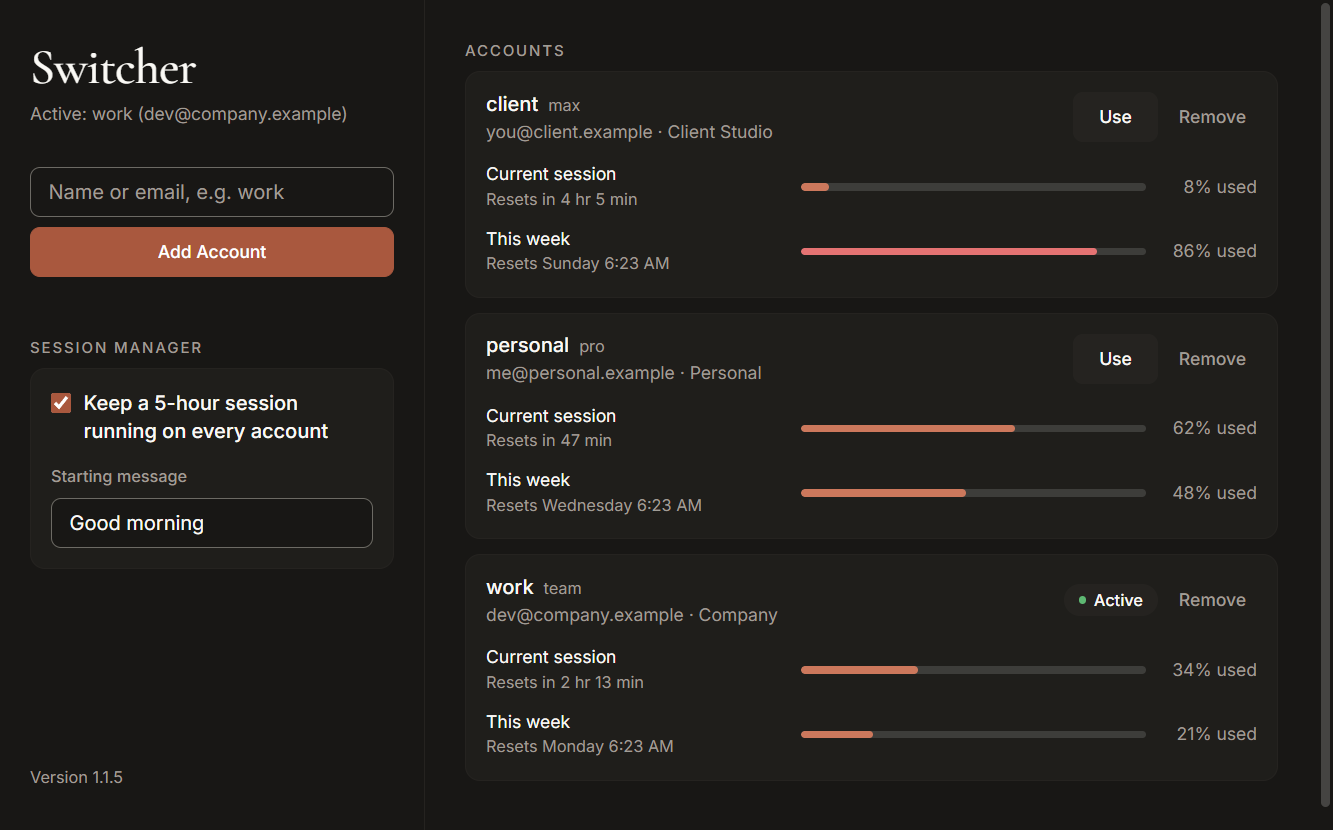
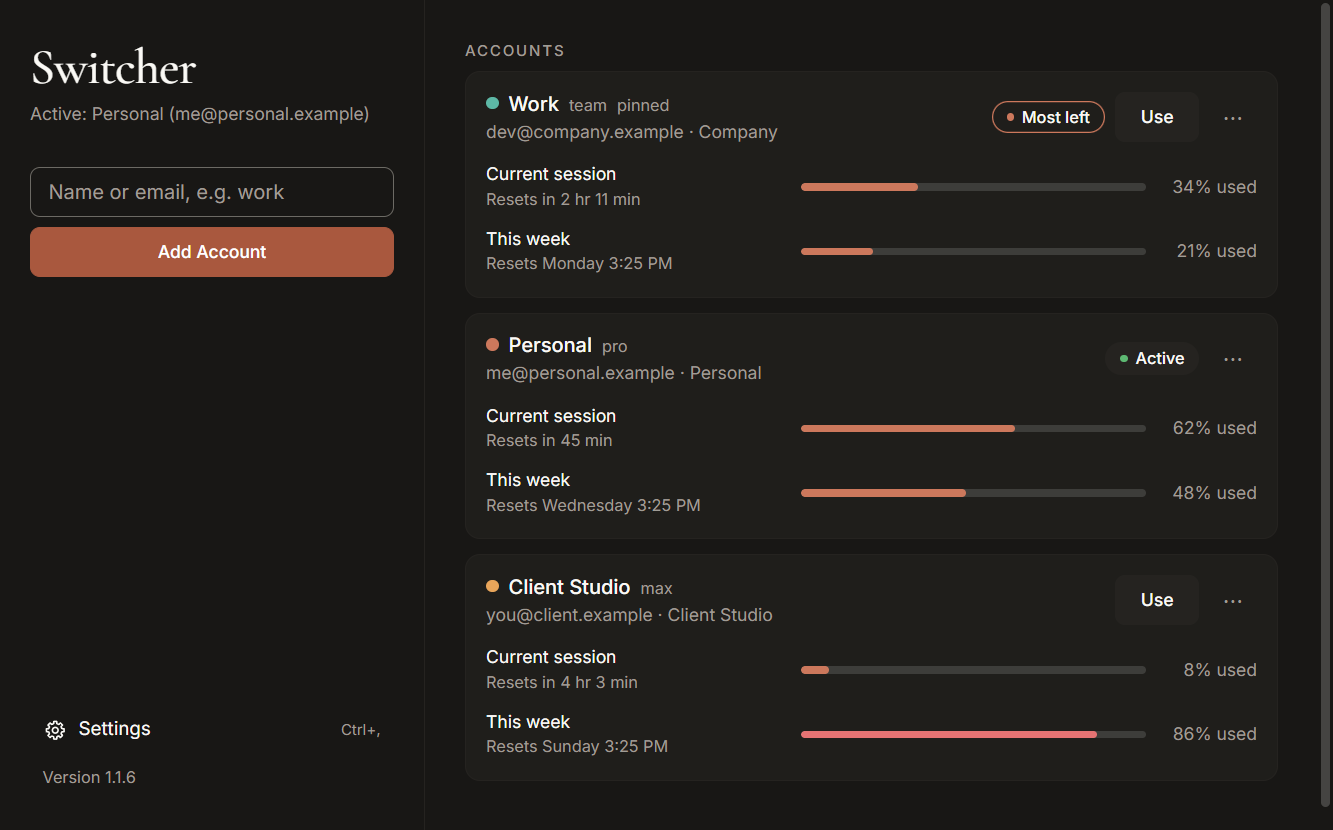
Settings in a Claude-style dialog (#2)
Session manager and settings move out of the sidebar into a modal with sections on the left
(Session manager, General, Quick switcher) and rows of label + control on the right, with on/off
switches. Opens from the Settings button at the bottom of the sidebar or Ctrl/Cmd+,; Esc or a
backdrop click closes it (Esc while recording a shortcut only cancels the recording).

diff --git a/styles.css b/styles.css
@@ -132,16 +132,50 @@ input.rename { height: 32px; padding: 4px 8px; font: 500 16px var(--sans); max-w
 li.dragging { opacity: 0.5; }
 li.drop { border-color: var(--focus); }
 
-/* Settings */
-.panel.settings { margin-top: 12px; } /* .panel's margin: 0 comes later, so this needs the extra class */
-.settings summary { cursor: pointer; font: 500 12px/1.4 var(--sans); letter-spacing: 1.5px; text-transform: uppercase; color: var(--muted); }
-.settings[open] summary { margin-bottom: 8px; }
-/* "Turn off" sits on the label line so the field gets the full width for the key combination. */
-.shortcut-head { display: flex; align-items: baseline; justify-content: space-between; gap: 8px; margin-top: 8px; }
-.panel .shortcut-head label { margin-top: 0; }
-.shortcut-head button.link { height: 24px; padding: 0 4px; font-size: 13px; }
+/* Sidebar foot: Settings and the version, pinned to the bottom */
+.side-foot { display: grid; gap: 8px; margin-top: auto; padding-top: 24px; }
+button.side-link { display: flex; align-items: center; gap: 10px; padding: 0 10px; border-color: transparent; background: transparent; font-weight: 400; font-size: 15px; text-align: left; }
+button.side-link:hover { background: var(--pill); }
+button.side-link kbd { margin-left: auto; font: 400 12px var(--sans); color: var(--muted); }
+svg { flex: none; width: 18px; height: 18px; fill: none; stroke: currentColor; stroke-width: 1.75; stroke-linecap: round; stroke-linejoin: round; }
+
+/* Settings dialog, laid out like Claude's: sections on the left, rows of label + control on the right */
+dialog.settings-dialog { width: min(860px, calc(100vw - 32px)); height: min(560px, calc(100vh - 32px)); max-width: none; max-height: none; padding: 0;
+  border: 1px solid var(--hairline); border-radius: 16px; background: var(--card); color: var(--ink); box-shadow: 0 16px 48px rgb(20 20 19 / 0.24); }
+dialog.settings-dialog[open] { display: grid; grid-template-rows: auto minmax(0, 1fr); }
+dialog::backdrop { background: rgb(20 20 19 / 0.45); }
+.dialog-head { display: flex; align-items: center; justify-content: space-between; padding: 12px 12px 12px 24px; border-bottom: 1px solid var(--hairline); }
+.dialog-head h2 { margin: 0; font: 500 17px/1.3 var(--sans); letter-spacing: 0; text-transform: none; color: var(--ink); }
+button.close { width: 36px; height: 36px; padding: 0; display: grid; place-items: center; }
+button.close:hover { background: var(--pill); color: var(--ink); }
+.settings-body { display: grid; grid-template-columns: 220px minmax(0, 1fr); min-height: 0; }
+.settings-nav { display: flex; flex-direction: column; gap: 2px; padding: 12px; border-right: 1px solid var(--hairline); background: var(--soft); }
+.nav-item { display: flex; align-items: center; gap: 12px; height: 38px; padding: 0 12px; border: 0; background: transparent; font-weight: 400; font-size: 15px; text-align: left; }
+.nav-item:hover { background: var(--pill); }
+.nav-item[aria-current="page"] { background: var(--pill); font-weight: 500; }
+.pane { overflow-y: auto; padding: 20px 28px 28px; }
+.pane h3 { margin: 0 0 4px; font: 500 16px/1.4 var(--sans); }
+.setting { display: flex; align-items: center; justify-content: space-between; gap: 24px; padding: 16px 0; border-bottom: 1px solid var(--hairline); }
+.setting:last-child { border-bottom: 0; }
+.setting label { font: 400 15px/1.4 var(--sans); }
+.setting small { margin-top: 2px; font-size: 13px; white-space: normal; }
+.setting > input:not([type=checkbox]), .shortcut-field { flex: 0 1 300px; }
+.shortcut-field { display: flex; align-items: center; gap: 4px; }
 #shortcut { cursor: pointer; }
-#settingsHint { white-space: normal; }
+@media (max-width: 640px) {
+  .settings-body { grid-template-columns: 1fr; grid-template-rows: auto minmax(0, 1fr); }
+  .settings-nav { flex-direction: row; overflow-x: auto; border-right: 0; border-bottom: 1px solid var(--hairline); }
+  .nav-item { flex: none; }
+  .setting { flex-wrap: wrap; }
+}
+
+/* On/off switch: a real checkbox (role="switch"), drawn as a track and knob */
+input.switch { appearance: none; position: relative; flex: none; width: 38px; height: 22px; margin: 0; border-radius: 9999px; background: var(--field-line); cursor: pointer; transition: background 0.15s; }
+input.switch::before { content: ""; position: absolute; top: 3px; left: 3px; width: 16px; height: 16px; border-radius: 50%; background: #fff; transition: transform 0.15s; }
+input.switch:checked { background: var(--primary); }
+input.switch:checked::before { transform: translateX(16px); }
+input.switch:disabled { opacity: 0.45; cursor: default; }
+@media (prefers-reduced-motion: reduce) { input.switch, input.switch::before { transition: none; } }
 
 /* Quick switcher window */
 body.quick { display: flex; flex-direction: column; gap: 8px; height: 100vh; padding: 12px; border: 1px solid var(--hairline); }
@@ -156,14 +190,9 @@ body.quick #q { flex: none; height: 48px; font-size: 18px; }
 .mini { color: var(--muted); font-size: 13px; white-space: nowrap; }
 .quick-foot { margin: 0; padding: 0 4px; color: var(--muted); font-size: 12px; }
 
-.panel { display: grid; grid-template-columns: minmax(0, 1fr); gap: 8px; margin: 0; padding: 16px; background: var(--card); border: 1px solid var(--hairline); border-radius: 12px; }
-.check { display: flex; align-items: flex-start; gap: 10px; font: 500 16px/1.4 var(--sans); cursor: pointer; }
-.check input { flex: none; width: 16px; height: 16px; margin: 3px 0 0; accent-color: var(--primary); } /* centred on the first line */
-.panel label[for] { margin-top: 8px; font: 500 13px/1.4 var(--sans); color: var(--muted); }
 small.manager { margin-top: 10px; white-space: normal; }
 small.err { color: var(--error); }
-#msg + h2 { margin-top: 32px; }
-.update { display: flex; flex-wrap: wrap; align-items: center; gap: 12px; margin: auto 0 0; padding-top: 24px; color: var(--muted); font-size: 13px; } /* pinned to the sidebar's bottom */
+.update { display: flex; flex-wrap: wrap; align-items: center; gap: 12px; margin: 0; padding: 0 10px; color: var(--muted); font-size: 13px; }
 .update progress { flex-basis: 100%; } /* download bar on its own line under the text */
 
 form { display: grid; gap: 8px; }

diff --git a/index.html b/index.html
@@ -15,29 +15,87 @@
       <button class="primary">Add Account</button>
     </form>
     <p id="msg" aria-live="polite"></p>
-    <h2>Session manager</h2>
-    <section class="panel">
-      <label class="check"><input type="checkbox" id="autoStart"> Keep a 5-hour session running on every account</label>
-      <label for="message">Starting message</label>
-      <input id="message" maxlength="500" placeholder="hi">
-    </section>
-    <details class="panel settings">
-      <summary>Settings</summary>
-      <label class="check"><input type="checkbox" id="startAtLogin"> Start Switcher when I log in</label>
-      <label class="check"><input type="checkbox" id="notify"> Desktop notifications</label>
-      <div class="shortcut-head">
-        <label for="shortcut">Quick switcher shortcut</label>
-        <button type="button" id="clearShortcut" class="link">Turn off</button>
-      </div>
-      <input id="shortcut" readonly autocomplete="off" aria-describedby="settingsHint">
-      <small id="settingsHint" aria-live="polite"></small>
-    </details>
-    <p id="update" class="update" aria-live="polite"></p>
+    <div class="side-foot">
+      <button type="button" id="openSettings" class="side-link" aria-haspopup="dialog">
+        <svg viewBox="0 0 24 24" aria-hidden="true"><path d="M18.99 10.26L21.37 10.44L21.37 13.56L18.99 13.74L18.17 15.71L19.73 17.52L17.52 19.73L15.71 18.17L13.74 18.99L13.56 21.37L10.44 21.37L10.26 18.99L8.29 18.17L6.48 19.73L4.27 17.52L5.83 15.71L5.01 13.74L2.63 13.56L2.63 10.44L5.01 10.26L5.83 8.29L4.27 6.48L6.48 4.27L8.29 5.83L10.26 5.01L10.44 2.63L13.56 2.63L13.74 5.01L15.71 5.83L17.52 4.27L19.73 6.48L18.17 8.29Z"/><circle cx="12" cy="12" r="3"/></svg>
+        Settings <kbd id="settingsKey"></kbd>
+      </button>
+      <p id="update" class="update" aria-live="polite"></p>
+    </div>
   </aside>
   <main>
     <h2>Accounts</h2>
     <ul id="list"></ul>
   </main>
+
+  <dialog id="settingsDialog" class="settings-dialog" aria-labelledby="settingsTitle">
+    <header class="dialog-head">
+      <h2 id="settingsTitle">Settings</h2>
+      <button type="button" id="closeSettings" class="link close" aria-label="Close settings">
+        <svg viewBox="0 0 24 24" aria-hidden="true"><path d="M6 6l12 12M18 6L6 18"/></svg>
+      </button>
+    </header>
+    <div class="settings-body">
+      <nav class="settings-nav" aria-label="Settings sections">
+        <button type="button" class="nav-item" data-pane="paneSessions" aria-current="page">
+          <svg viewBox="0 0 24 24" aria-hidden="true"><circle cx="12" cy="12" r="9"/><path d="M12 7v5l3 2"/></svg>
+          Session manager
+        </button>
+        <button type="button" class="nav-item" data-pane="paneGeneral">
+          <svg viewBox="0 0 24 24" aria-hidden="true"><path d="M4 7h9M17 7h3M4 17h3M11 17h9"/><circle cx="15" cy="7" r="2"/><circle cx="9" cy="17" r="2"/></svg>
+          General
+        </button>
+        <button type="button" class="nav-item" data-pane="paneShortcut">
+          <svg viewBox="0 0 24 24" aria-hidden="true"><rect x="3" y="6" width="18" height="12" rx="2"/><path d="M7 10h0M10.5 10h0M14 10h0M17 10h0M8 14h8"/></svg>
+          Quick switcher
+        </button>
+      </nav>
+
+      <section id="paneSessions" class="pane" aria-labelledby="paneSessionsTitle">
+        <h3 id="paneSessionsTitle">Session manager</h3>
+        <div class="setting">
+          <label for="autoStart">Keep a 5-hour session running on every account</label>
+          <input type="checkbox" role="switch" class="switch" id="autoStart">
+        </div>
+        <div class="setting">
+          <label for="message">Starting message</label>
+          <input id="message" maxlength="500" placeholder="hi">
+        </div>
+      </section>
+
+      <section id="paneGeneral" class="pane" aria-labelledby="paneGeneralTitle" hidden>
+        <h3 id="paneGeneralTitle">General</h3>
+        <div class="setting">
+          <div>
+            <label for="startAtLogin">Start Switcher when I log in</label>
+            <small id="loginHint"></small>
+          </div>
+          <input type="checkbox" role="switch" class="switch" id="startAtLogin" aria-describedby="loginHint">
+        </div>
+        <div class="setting">
+          <div>
+            <label for="notify">Desktop notifications</label>
+            <small>Usage limits, logins that expire, and updates.</small>
+          </div>
+          <input type="checkbox" role="switch" class="switch" id="notify">
+        </div>
+      </section>
+
+      <section id="paneShortcut" class="pane" aria-labelledby="paneShortcutTitle" hidden>
+        <h3 id="paneShortcutTitle">Quick switcher</h3>
+        <div class="setting">
+          <div>
+            <label for="shortcut">Keyboard shortcut</label>
+            <small id="settingsHint" aria-live="polite">Opens the quick switcher from anywhere. Click the field, then press the keys.</small>
+          </div>
+          <div class="shortcut-field">
+            <input id="shortcut" readonly autocomplete="off" aria-describedby="settingsHint">
+            <button type="button" id="clearShortcut" class="link">Turn off</button>
+          </div>
+        </div>
+      </section>
+    </div>
+  </dialog>
   <script src="renderer.js"></script>
 </body>
 </html>

diff --git a/renderer.js b/renderer.js
@@ -228,15 +228,17 @@ function showSettings() {
 
 async function loadSettings() {
   try { settings = await window.call('settings'); showSettings(); } catch {}
-  $('settingsHint').textContent = settings.loginSupported === false ? 'Start at login works in the installed app.' : '';
+  $('loginHint').textContent = settings.loginSupported === false ? 'Works in the installed app.' : '';
 }
 
+const SHORTCUT_HINT = $('settingsHint').textContent;
+const shortcutHint = (text = SHORTCUT_HINT, err = false) => { $('settingsHint').textContent = text; $('settingsHint').classList.toggle('err', err); };
 async function saveSettings(patch) {
   try {
     settings = await window.call('setSettings', patch);
-    $('settingsHint').textContent = '';
+    shortcutHint();
   } catch (e) {
-    $('settingsHint').textContent = clean(e);
+    shortcutHint(clean(e), true);
   }
   showSettings();
 }
@@ -252,9 +254,31 @@ $('shortcut').onkeydown = (e) => {
   const key = codeKey(e.code);
   if (!key) return; // only a modifier so far
   const mods = [(MAC ? e.metaKey : e.ctrlKey) && 'CommandOrControl', MAC && e.ctrlKey && 'Control', e.altKey && 'Alt', e.shiftKey && 'Shift'].filter(Boolean);
-  if (!mods.some((m) => m !== 'Shift')) { $('settingsHint').textContent = `Include ${mod} or ${MAC ? 'Option' : 'Alt'} in the shortcut.`; return; }
+  if (!mods.some((m) => m !== 'Shift')) return shortcutHint(`Include ${mod} or ${MAC ? 'Option' : 'Alt'} in the shortcut.`, true);
   saveSettings({ shortcut: [...mods, key].join('+') }).then(() => $('shortcut').blur());
 };
+
+// --- settings dialog: sections on the left, like Claude's ---
+const dialog = $('settingsDialog');
+function showPane(id) {
+  for (const b of document.querySelectorAll('.nav-item')) {
+    const on = b.dataset.pane === id;
+    if (on) b.setAttribute('aria-current', 'page'); else b.removeAttribute('aria-current');
+    $(b.dataset.pane).hidden = !on;
+  }
+}
+function openSettings() {
+  if (dialog.open) return;
+  dialog.showModal();
+  document.querySelector('.nav-item[aria-current]').focus(); // start on the section, not the close button
+}
+for (const b of document.querySelectorAll('.nav-item')) b.onclick = () => showPane(b.dataset.pane);
+$('openSettings').onclick = openSettings;
+$('closeSettings').onclick = () => dialog.close();
+dialog.onclick = (e) => { if (e.target === dialog) dialog.close(); }; // a click on the backdrop
+dialog.oncancel = (e) => { if (document.activeElement === $('shortcut')) { e.preventDefault(); $('shortcut').blur(); } }; // Esc while recording cancels only that
+$('settingsKey').textContent = `${mod}+,`;
+document.addEventListener('keydown', (e) => { if (e.key === ',' && (MAC ? e.metaKey : e.ctrlKey)) { e.preventDefault(); openSettings(); } });
 
 async function refresh() {
   const d = await run('list');

diff --git a/DESIGN.md b/DESIGN.md
@@ -18,7 +18,7 @@ All colours are CSS custom properties on `:root`, redefined for dark mode under 
 |---|---|---|---|
 | `--canvas` | `#faf9f5` | `#181715` | Page and sidebar background, input fill |
 | `--soft` | `#f5f0e8` | `#181715` | Accounts area background |
-| `--card` | `#faf9f5` | `#1f1e1b` | Account cards, the session manager panel |
+| `--card` | `#faf9f5` | `#1f1e1b` | Account cards, menus, the settings dialog |
 | `--secondary` | `#faf9f5` | `#252320` | Secondary buttons (**Use**, **Reconnect**) |
 | `--pill` | `#efe9de` | `#252320` | The **Active** badge |
 | `--ink` | `#141413` | `#faf9f5` | Primary text |
@@ -60,11 +60,11 @@ Fonts are bundled from `@fontsource` (SIL Open Font License), so nothing loads f
 
 - **Spacing** follows a 4px rhythm: 8, 12, 16, 24 and 32px. Cards have 14–16px padding; columns 24–32px.
 - **Radius**: 8px for buttons and inputs, 12px for cards and panels, fully round (`9999px`) for badges, usage bars and the scrollbar.
-- **Borders**: 1px. Shadows only appear as the input focus glow and under the floating card menu (`0 8px 24px` ink at 14%), which needs to lift off the card below it.
+- **Borders**: 1px. Shadows only appear as the input focus glow and under things that float: the card menu (`0 8px 24px` ink at 14%) and the settings dialog (`0 16px 48px` ink at 24%).
 
 ## Layout
 
-- **Sidebar** (340px, left): title, active account, **Add Account**, session manager, settings, and the version and update area pinned to the bottom.
+- **Sidebar** (340px, left): title, active account and **Add Account**; **Settings** and the version and update area are pinned to the bottom.
 - **Accounts** (the rest): one card per account, 12px apart.
 - Each column scrolls on its own. Under 760px wide, it becomes one column.
 
@@ -82,7 +82,9 @@ Fonts are bundled from `@fontsource` (SIL Open Font License), so nothing loads f
 | **Most left chip** | Like the Active badge, but transparent with a 1px coral outline and a coral dot. Marks the account with the most usage left |
 | **Colour dot** | 10px circle before the account name, filled with a `--label-*` token; absent when no label is set |
 | **Card menu** | Opened by the **⋯** link button: `--card` fill, hairline border, 12px radius, the menu shadow. Items are 34px rows with `--pill` on hover; **Remove** is `--error` |
-| **Panel** | Like a card; holds the session manager and the collapsible settings |
+| **Settings dialog** | Modal, up to 860×560, 16px radius, `--card` fill, backdrop ink at 45%. Header: "Settings" (17px / 500) and a close button. Left: a 220px section list on `--soft`, 38px items, the current one on `--pill`. Right: the section title (16px / 500), then rows of label (15px; optional 13px `--muted` line under it) on the left and the control on the right, hairlines between rows. Opens from the sidebar or Ctrl/Cmd+,; Esc or a backdrop click closes it. Under 640px the section list becomes a row on top |
+| **Switch** | A checkbox with `role="switch"`: 38×22 round track, `--field-line` when off, `--primary` when on, 16px white knob |
+| **Icons** | 18px line icons, 1.75 stroke, `currentColor`, round caps. Only in navigation: the Settings button and the dialog's section list |
 | **Quick switcher** | Frameless 560×440 window: a 48px search field, rows with dot, name, email and "Session N% · Week N%", the selected row on `--pill`, and a 12px keyboard hint footer |
 | **Status line** | 14px text under the form; `--error` for errors |
 | **Scrollbar** | 12px slim thumb, round, no arrows; darker on hover, coral while dragging |
@@ -97,5 +99,5 @@ Fonts are bundled from `@fontsource` (SIL Open Font License), so nothing loads f
 ## Do and don't
 
 - **Do** use the tokens, check light and dark mode, and keep one primary button per screen.
-- **Don't** add new colours, shadows, gradients, icons or fonts, or use coral as a background for large areas.
+- **Don't** add new colours, shadows, gradients or fonts, use icons outside navigation, or use coral as a background for large areas.
 - **Don't** imitate Anthropic's logos or marks. Switcher is unofficial.

diff --git a/README.md b/README.md
@@ -87,11 +87,11 @@ You also need the [Claude Code](https://docs.anthropic.com/en/docs/claude-code) 
 
 1. **Add Account**: type a name (an email works). A terminal opens running `claude auth login` in an isolated profile; sign in there.
 2. **Use**: makes that account the one Claude Code runs as. In VS Code, run **Developer: Reload Window** so the extension picks it up.
-3. **Session manager**: tick *Keep a 5-hour session running*, and choose the starting message it sends (with Haiku, no tools) to accounts that have no window running.
+3. **Session manager**: open **Settings** (bottom left, or <kbd>Ctrl</kbd>+<kbd>,</kbd>), turn on *Keep a 5-hour session running*, and choose the starting message it sends (with Haiku, no tools) to accounts that have no window running.
 
 If a card can't load usage, **Reconnect** retries, or reopens sign-in when the login has expired. Each card's **⋯** menu renames, pins, colours, moves or removes the account.
 
-**Settings** has start at login (installed app only), notifications, and the quick switcher shortcut: click the field and press the new combination, or **Turn off**.
+**Settings** also has start at login (installed app only), notifications, and the quick switcher shortcut: click the field and press the new combination, or **Turn off**.
 
 ## How it works
 
